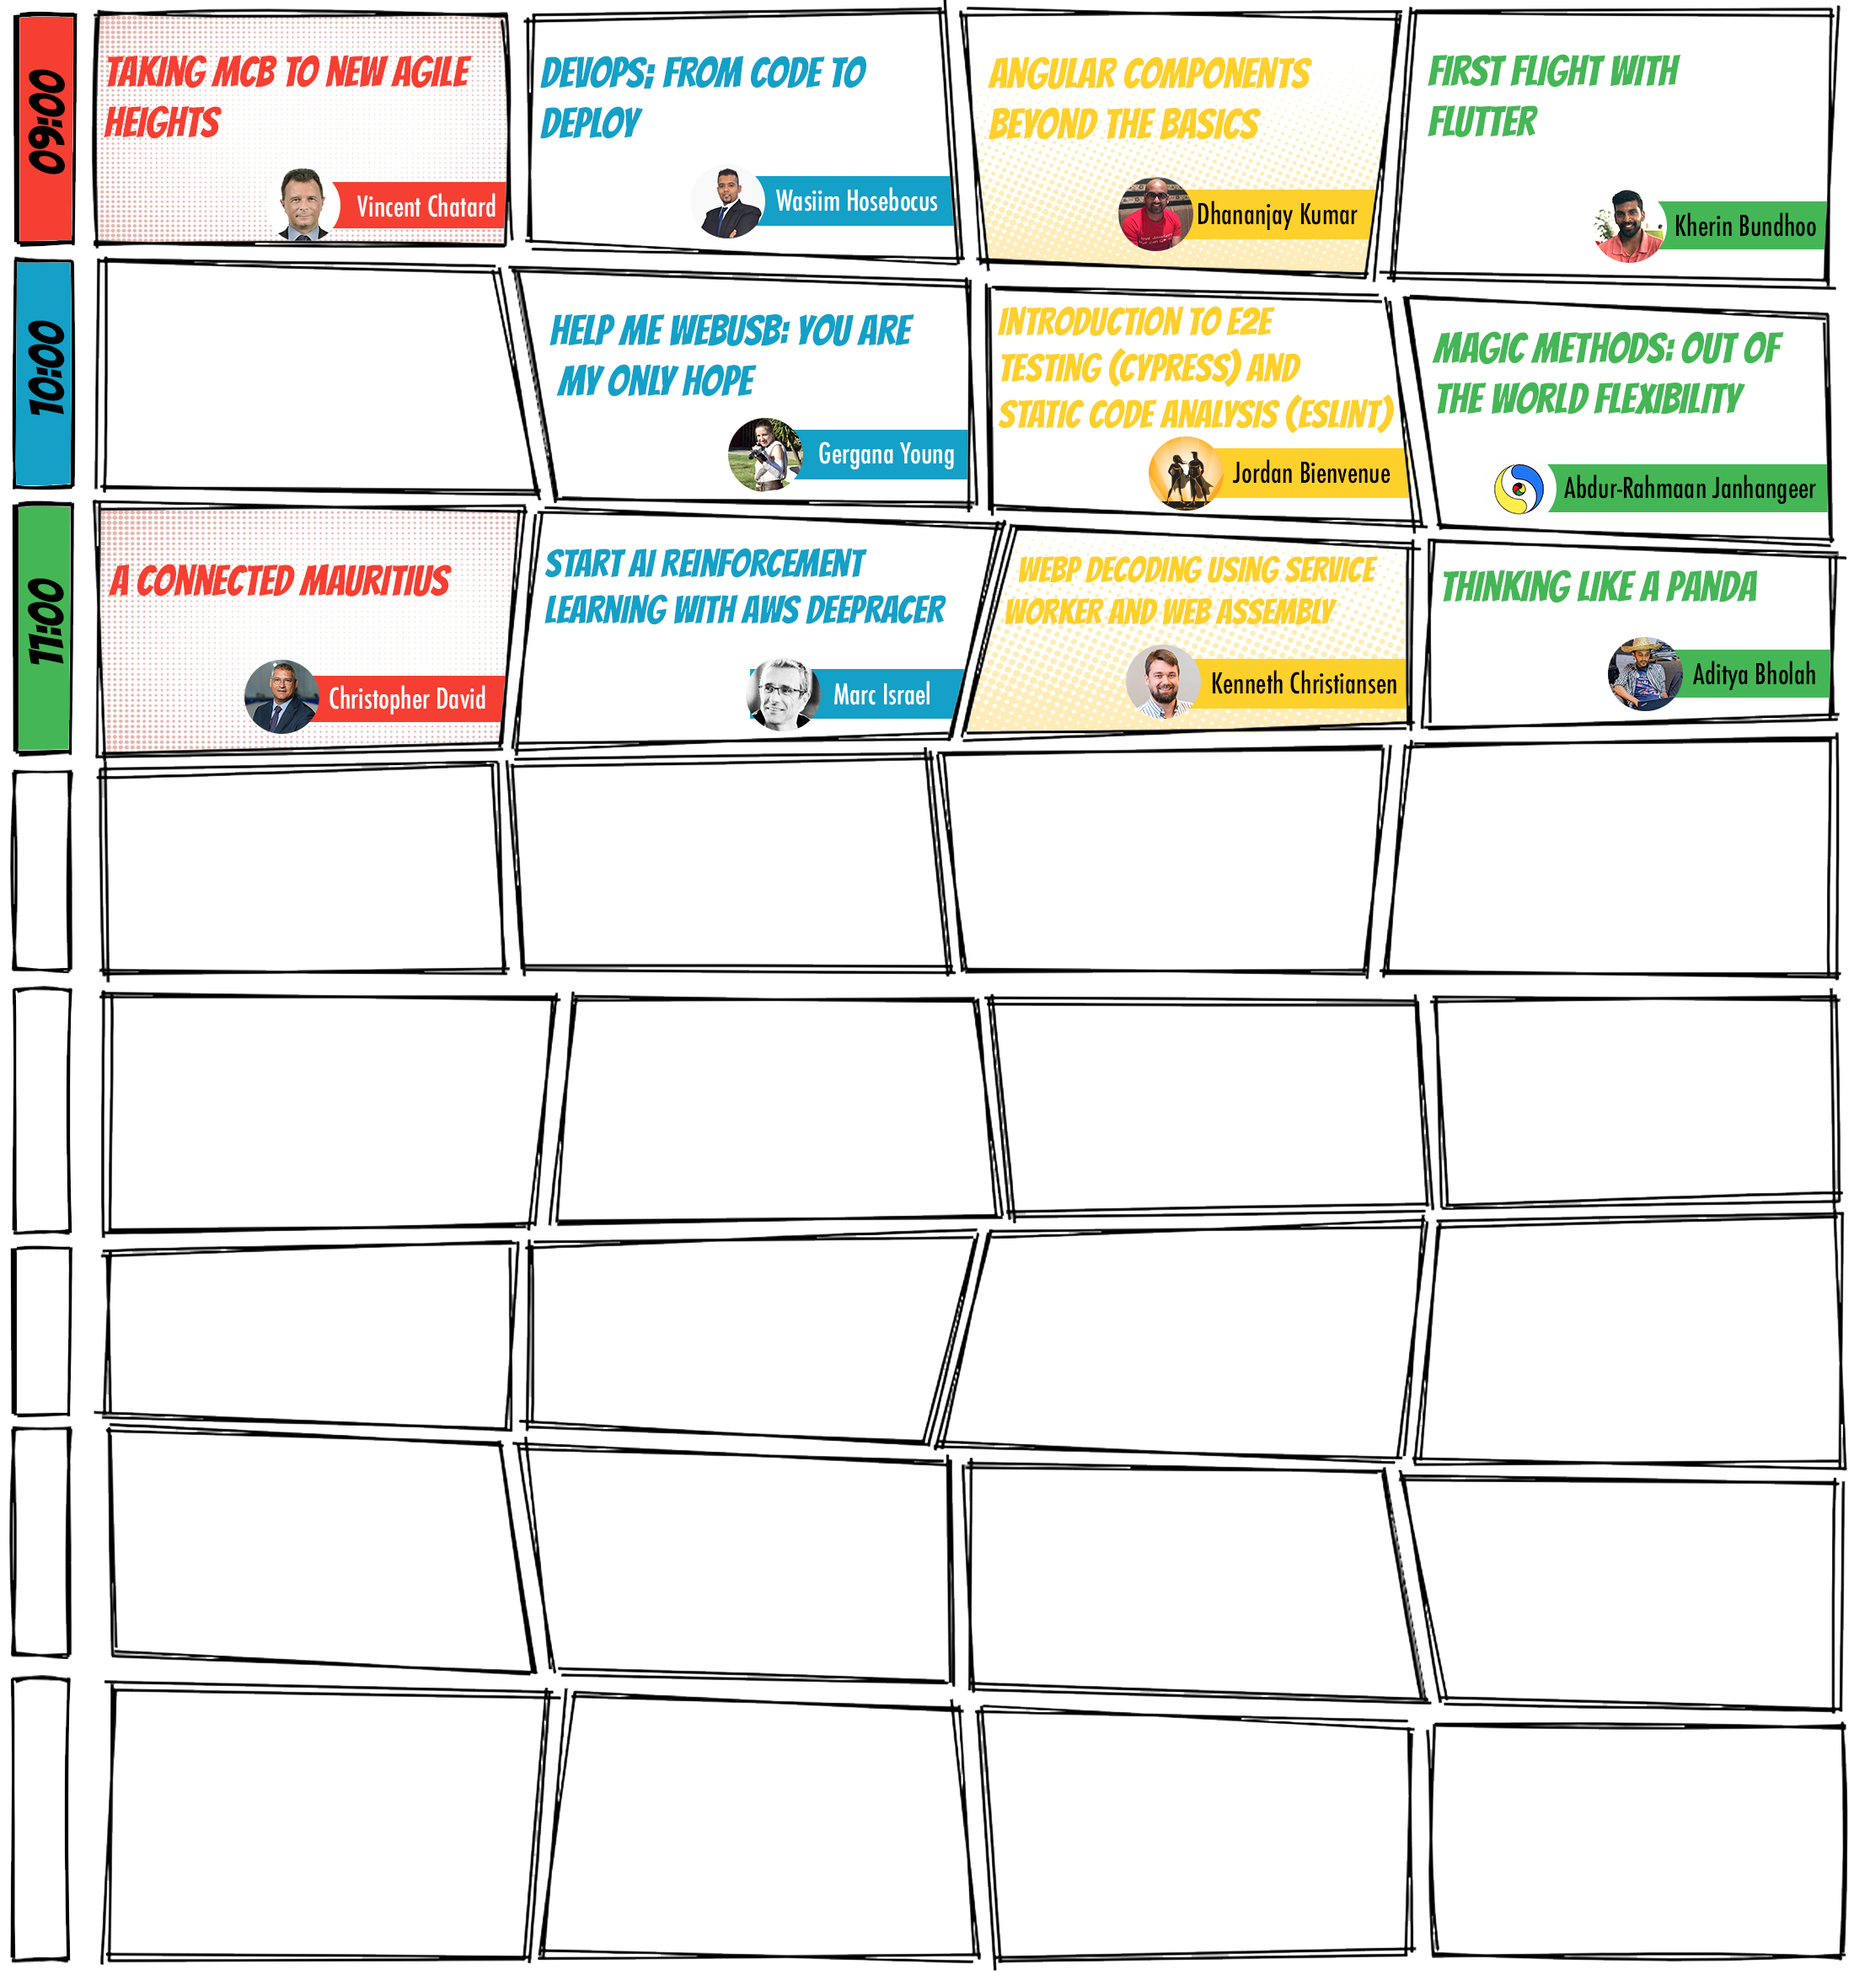
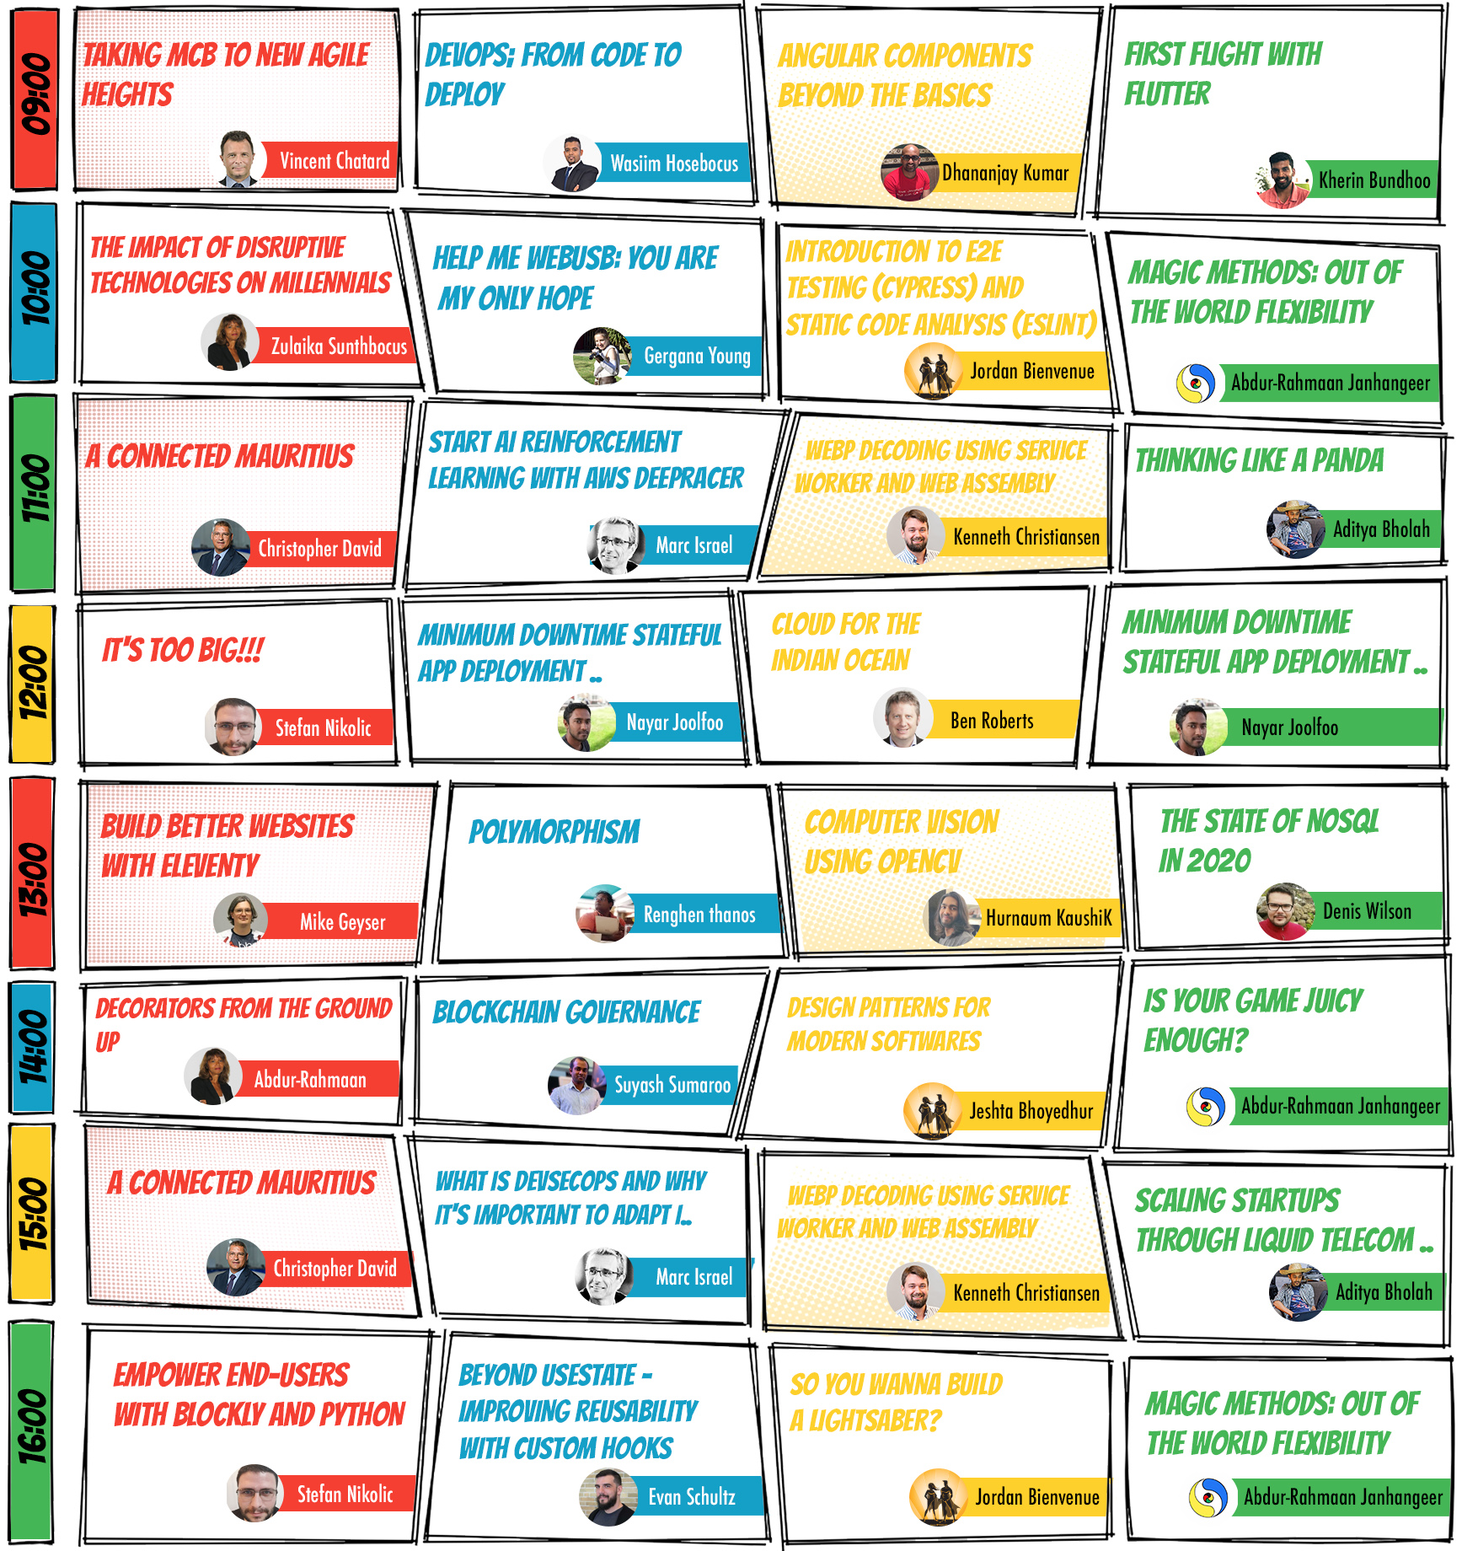
Schedule & sponsors

diff --git a/src/components/home/SponsorsComponent.vue b/src/components/home/SponsorsComponent.vue
@@ -7,7 +7,12 @@
 
         <div class="list">
           <div class="group power">
-            <div class="title-package power">Power Stone</div>
+            <div class="title-package power">
+              <img src="/stones/power.png" alt="">
+              <div class="text">
+                Power stone (Diamond)
+              </div>
+            </div>
             <div class="sponsors">
               <div class="item">
                 <a href="https://www.liquidtelecom.com/" target="_blank">
@@ -23,7 +28,12 @@
           </div>
 
           <div class="group space">
-            <div class="title-package space">Space Stone</div>
+            <div class="title-package space">
+              <img src="/stones/space.png" alt="">
+              <div class="text">
+                Space Stone (Titanium)
+              </div>
+            </div>
             <div class="sponsors">
               <div class="item">
                 <a href="https://www.providus.mu" target="_blank">
@@ -34,7 +44,12 @@
           </div>
 
           <div class="group reality">
-            <div class="title-package reality">Reality Stone</div>
+            <div class="title-package reality">
+              <img src="/stones/reality.png" alt="">
+              <div class="text">
+                Reality Stone (Platinium)
+              </div>
+            </div>
             <div class="sponsors">
               <div class="item">
                 <a href="https://www.sdworx.com/" target="_blank">
@@ -75,7 +90,13 @@
           </div>
 
           <div class="group soul">
-            <div class="title-package soul">Soul Stone</div>
+            <div class="title-package soul">
+              <img src="/stones/soul.png" alt="">
+              <div class="text">
+                Soul Stone (Gold)
+              </div>
+            </div>
+
             <div class="sponsors">
               <div class="item">
                 <a href="https://corshamscience.com/" target="_blank">
@@ -96,7 +117,12 @@
           </div>
 
           <div class="group time">
-            <div class="title-package time">Time Stone</div>
+            <div class="title-package time">
+              <img src="/stones/time.png" alt="">
+              <div class="text">
+                Time Stone (Silver)
+              </div>
+            </div>
             <div class="sponsors">
               <div class="item">
                 <a
@@ -110,7 +136,12 @@
           </div>
 
           <div class="group mind">
-            <div class="title-package mind">Mind Stone</div>
+            <div class="title-package mind">
+              <img src="/stones/mind.png" alt="">
+              <div class="text">
+                Mind Stone (Bronze)
+              </div>
+            </div>
             <div class="sponsors">
               <div class="item">
                 <a href="https://www.aerow.group" target="_blank">
@@ -265,6 +296,14 @@ export default {};
       font-family: var(--font-bangers);
       font-size: 40px;
       margin-bottom: 30px;
+      display: flex;
+      align-items: center;
+      justify-content: center;
+
+      img {
+        height: 60px;
+        margin-right: 20px;
+      }
 
       &.power,
       &.space,

diff --git a/src/components/home/ScheduleComponent.vue b/src/components/home/ScheduleComponent.vue
@@ -6,6 +6,22 @@
           <div class="sub-text">What's on the menu</div>
           <div class="title">Schedule</div>
         </div>
+
+        <div class="selection__day">
+          <div class="block">
+            <input type="radio" id="day-1" value="day-1" checked v-model="day">
+            <label for="day-1">Day 1</label>
+          </div>
+          <div class="block">
+            <input type="radio" id="day-2" value="day-2" v-model="day">
+            <label for="day-2">Day 2</label>
+          </div>
+          <div class="block">
+            <input type="radio" id="day-3" value="day-3" v-model="day">
+            <label for="day-3">Day 3</label>
+          </div>
+        </div>
+
         <img class="schedule-wf" src="/schedule.jpg" alt />
       </div>
     </div>
@@ -13,7 +29,13 @@
 </template>
 
 <script>
-export default {};
+export default {
+  data () {
+    return {
+      day: 'day-1'
+    }
+  }
+};
 </script>
 
 <style lang="scss" scoped>
@@ -28,10 +50,49 @@ export default {};
 
   .schedule__superheros {
     width: 100%;
-    background: url("/superheros.png");
+    background: url("/superhero-left.png"), url("/superhero-right.png");
     background-repeat: no-repeat;
-    background-size: 250px;
-    background-position: bottom left;
+    background-size: 200px, 200px;
+    background-position: center left, bottom right;
+  }
+
+  .selection__day {
+    display: grid;
+    grid-template-columns: 1fr 1fr 1fr;
+    grid-template-rows: 60px;
+    margin-bottom: 20px;
+    grid-gap: 10px;
+
+    input[type="radio"] {
+      display: none;
+    }
+
+    .block {
+      input[type="radio"]:checked + label {
+        background: black;
+        color: white;
+        width: 100%;
+        text-align: center;
+      }
+
+      label {
+        width: 100%;
+        text-align: center;
+        display: flex;
+        align-items: center;
+        justify-content: center;
+        height: 60px;
+        font-family: var(--font-bangers);
+        font-size: 30px;
+        border-radius: 255px 15px 225px 15px/15px 225px 15px 255px;
+        border: solid #000;
+        border-color: #000;
+
+        &:hover {
+          cursor: pointer;
+        }
+      }
+    }
   }
 
   .title__section {

diff --git a/src/components/shared/HeaderComponent.vue b/src/components/shared/HeaderComponent.vue
@@ -59,12 +59,12 @@ export default {};
     }
 
     .mscc {
-      margin-right: 10px;
+      margin-right: 5px;
       width: 50px;
       height: 50px;
       display: flex;
       align-items: center;
-      border-right: 1px solid rgba(255, 255, 255, 0.3);
+      // border-right: 1px solid rgba(255, 255, 255, 0.3);
 
       img {
         height: 40px;
